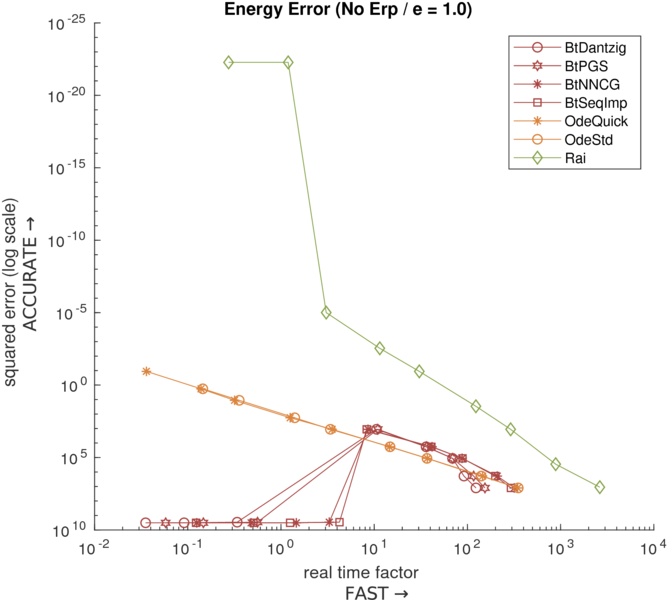
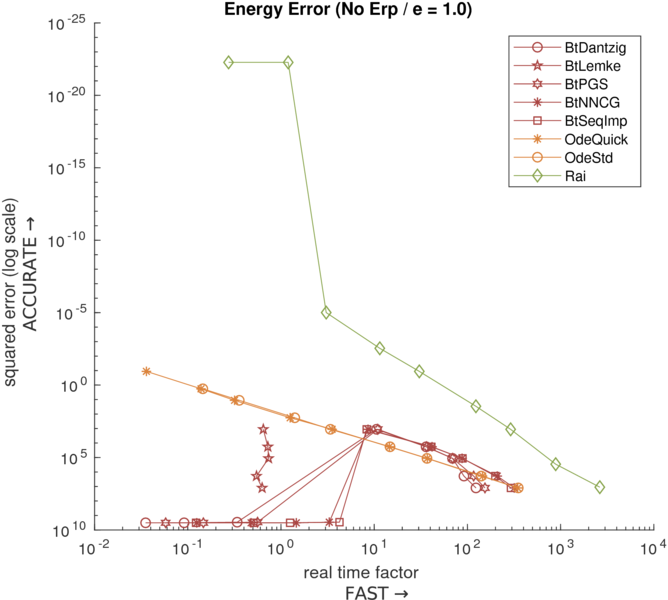
- bouncing doc edited

diff --git a/docs/bouncing/bouncing.html b/docs/bouncing/bouncing.html
@@ -56,7 +56,7 @@ layout: default
             <li>NNCG</li>
             <li>MLCP Dantzig</li>
             <li>MLCP PGS</li>
-            <li><strike>MLCP Lemke</strike><sup><a href="#[2]">[2]</a></sup></li>
+            <li>MLCP Lemke<sup><a href="#[2]">[2]</a></sup></li>
         </ul>
     </li>
     <li>ODE
@@ -84,15 +84,21 @@ layout: default
 
 <ul>
     <li id="[1]">
-        [1] Bullet has problem in simulation of elastic/inelastic collision when the time-step is small which is seemed to be a software bug as the following video:
-
-        <p>
-            <img src="bouncing-bullet-dt=0.0001.gif">
-        </p>
+        [1] Bullet has problem in simulation of elastic/inelastic collision when the time-step is small which is seemed to be a software bug as the following video(left).
     </li>
     <li id="[2]">
-        [2] Bullet MLCP Lemke solver fails during the simulation.
+        [2] Bullet MLCP Lemke solver has huge error due to the late rebound (right).
     </li>
+    <p>
+    <div class="row">
+        <div class="column">
+            <img src="bouncing-bullet-dt=0.0001.gif" alt="bouncing-test-bullet-failure" style="width:100%">
+        </div>
+        <div class="column">
+            <img src="bouncing-bullet-lemke.gif" alt="bouncing-test-bullet-lemke-failure" style="width:100%">
+        </div>
+    </div>
+    </p>
     <li id="[3]">
         [3] MuJoCo cannot simulate elastic collision. Furthermore, it is not possible to set specific restitutional coefficient in MuJoCo. The only way to make bouncy contact is adjusting solref parameter (damping parameter), however there is no one-to-one correspondence between solref and restitutional coefficient.
 

diff --git a/sim/bulletSim/benchmark/BouncingBenchmark.cpp b/sim/bulletSim/benchmark/BouncingBenchmark.cpp
@@ -47,7 +47,7 @@ void setupWorld() {
   for(int i = 0; i < benchmark::bouncing::params.n; i++) {
     for(int j = 0; j < benchmark::bouncing::params.n; j++) {
       auto ball = sim->addSphere(benchmark::bouncing::params.R, benchmark::bouncing::params.m);
-      ball->setPosition(i * 2.0, j * 2.0, benchmark::bouncing::params.H);
+      ball->setPosition(i * 2.0 - 10, j * 2.0 - 10, benchmark::bouncing::params.H);
       ball->setFrictionCoefficient(benchmark::bouncing::params.mu_ball);
       ball->setRestitutionCoefficient(benchmark::bouncing::options.e);
 
@@ -68,7 +68,7 @@ void setupWorld() {
     sim->setLightPosition((float)benchmark::bouncing::params.lightPosition[0],
                           (float)benchmark::bouncing::params.lightPosition[1],
                           (float)benchmark::bouncing::params.lightPosition[2]);
-    sim->cameraFollowObject(checkerboard, {10, 0, 10});
+    sim->cameraFollowObject(checkerboard, {10, 0, 6});
   }
 }
 

diff --git a/etc/matlab/plot-gen/bouncing.m b/etc/matlab/plot-gen/bouncing.m
@@ -140,10 +140,10 @@ writetable(T, 'bouncing-log.csv', 'Delimiter', ',', 'QuoteStrings', true)
 %% error plot
 % plot option
 erpNe1 = plotoption;
-erpNe1.BULLETMLCPLEMKEBULLET = false;
+% erpNe1.BULLETMLCPLEMKEBULLET = false;
 
 erpNe08 = plotoption;
-erpNe08.BULLETMLCPLEMKEBULLET = false;
+% erpNe08.BULLETMLCPLEMKEBULLET = false;
 
 erpYe1 = plotoption;
 erpYe08 = plotoption;
@@ -213,7 +213,7 @@ hold off
 title(['Energy Error ', plotTitle])
 xlabel(sprintf('real time factor \n FAST →'))
 ylabel(sprintf('squared error (log scale) \n ACCURATE →'))
-legend('Location', 'southeast')
+legend('Location', 'northeast')
 saveas(h, strcat('bouncing-plots/bounce-error-dt', fileName, '.png'))
 saveas(h, strcat('bouncing-plots/bounce-error-dt', fileName, '.eps'), 'epsc')
 saveas(h, strcat('bouncing-plots/bounce-error-dt', fileName, '.fig'), 'fig')
